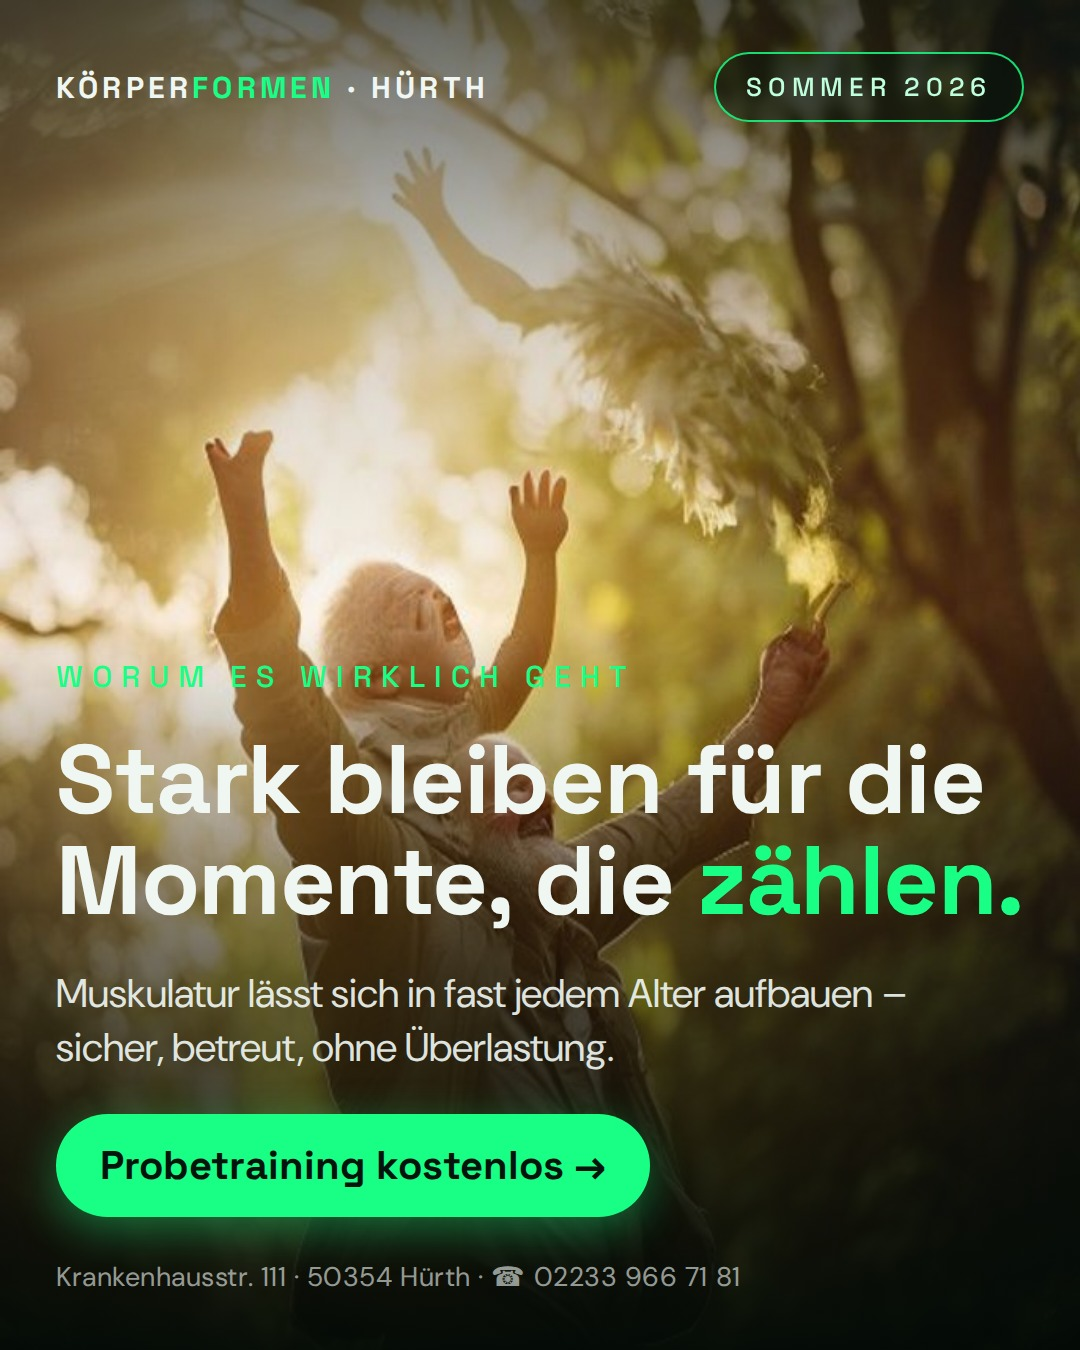
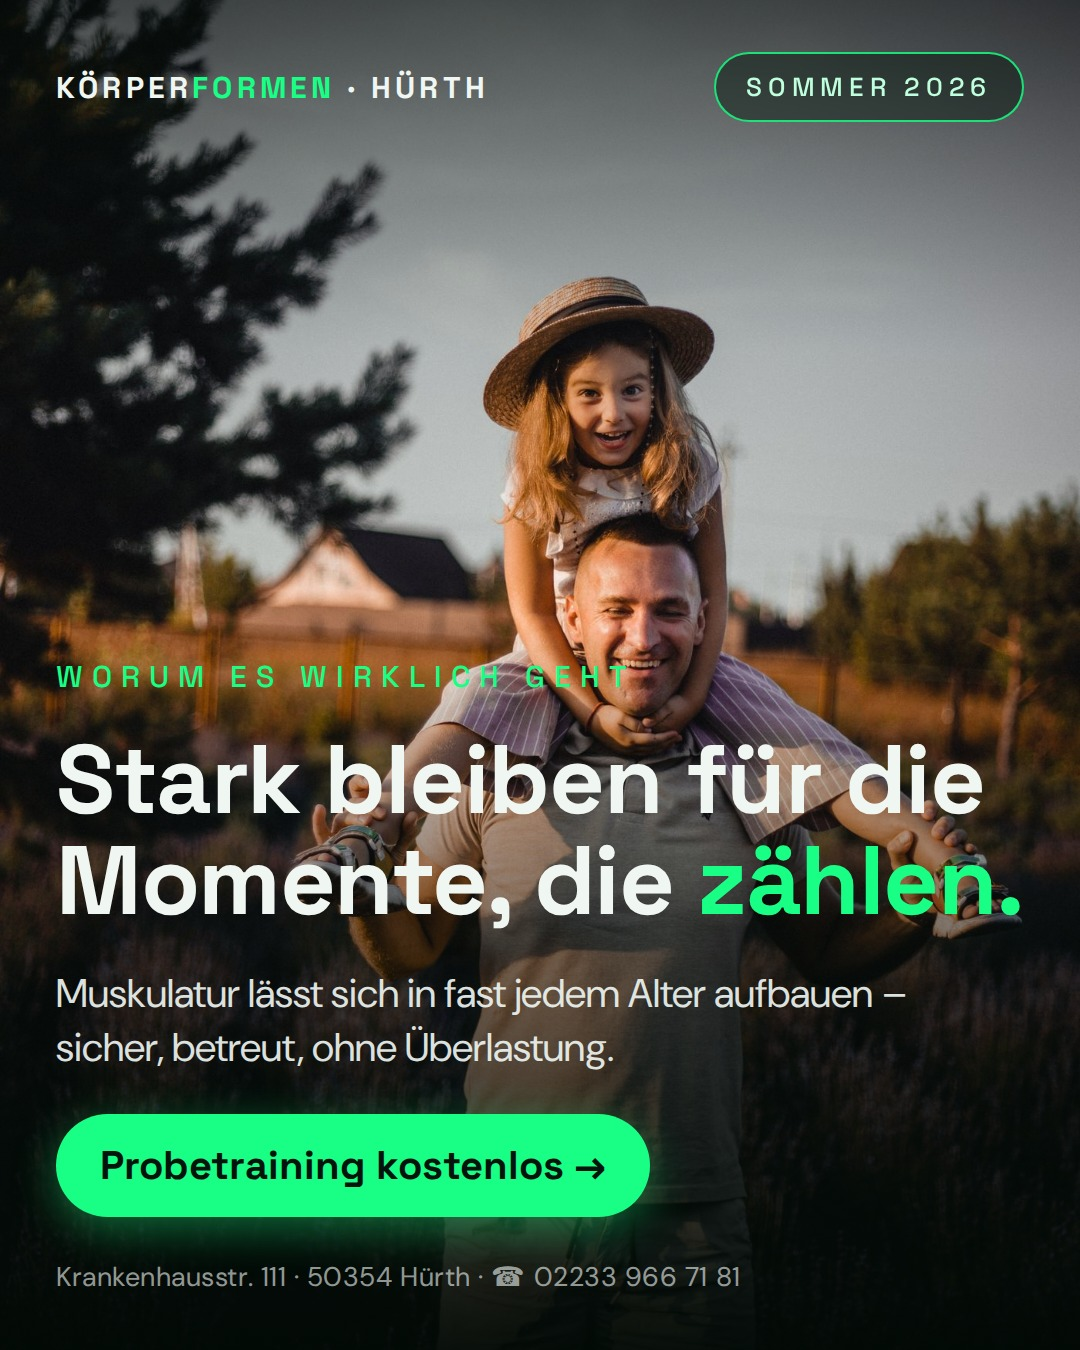
Kampagnen-Motive: KI-Bilder durch echte Pexels-Fotos ersetzt
Alle 8 Foto-Motive nutzen jetzt frei lizenzierte Pexels-Fotos
(kommerzielle Nutzung ohne Namensnennung erlaubt), Quellenliste
in der Posts-Datei ergänzt. Post 9+10 bleiben Statement-Designs.

Claude-Session: https://claude.ai/code/session_016heUAccW7CoEmYAtB9wKKf

diff --git a/SOMMERKAMPAGNE-2026-FACEBOOK-POSTS.md b/SOMMERKAMPAGNE-2026-FACEBOOK-POSTS.md
@@ -24,12 +24,24 @@ designtes Motiv (1080 × 1350 px, 4:5 — das ideale Facebook-Feed-Format):
 Marketing-App (dunkles Grün, Neon-Akzent, Space Grotesk), jeweils mit Headline,
 CTA-Button „Probetraining kostenlos" und Kontaktzeile im Bild.
 
-> **Hinweis zu den Fotos:** Die Foto-Hintergründe (Post 1–8) sind KI-generiert
-> (Pollinations.ai, derselbe Dienst wie in der Marketing-App) — die abgebildeten
-> Personen existieren nicht. Für Werbeanzeigen okay, aber echte Studio-/Team-Fotos
-> wirken authentischer und sind langfristig die bessere Wahl; die Motive lassen sich
-> jederzeit mit euren eigenen Fotos neu bauen. Post 9 + 10 sind reine
-> Statement-Designs ohne Foto und können direkt so verwendet werden.
+> **Hinweis zu den Fotos:** Die Foto-Hintergründe (Post 1–8) sind echte Fotos von
+> **Pexels** — die [Pexels-Lizenz](https://www.pexels.com/license/) erlaubt kostenlose
+> kommerzielle Nutzung inkl. Bearbeitung und Werbung, ohne Namensnennung. Quellen:
+>
+> | Post | Pexels-Foto |
+> |------|-------------|
+> | 1 | [pexels.com/photo/3775607](https://www.pexels.com/photo/3775607/) |
+> | 2 | [pexels.com/photo/32830368](https://www.pexels.com/photo/32830368/) |
+> | 3 | [pexels.com/photo/3776177](https://www.pexels.com/photo/3776177/) |
+> | 4 | [pexels.com/photo/7879994](https://www.pexels.com/photo/7879994/) |
+> | 5 | [pexels.com/photo/4162591](https://www.pexels.com/photo/4162591/) |
+> | 6 | [pexels.com/photo/6922177](https://www.pexels.com/photo/6922177/) |
+> | 7 | [pexels.com/photo/3353573](https://www.pexels.com/photo/3353573/) |
+> | 8 | [pexels.com/photo/9066925](https://www.pexels.com/photo/9066925/) |
+>
+> Langfristig wirken echte Fotos aus eurem Studio in Hürth noch stärker — die Motive
+> lassen sich jederzeit mit eigenen Fotos im selben Design neu bauen. Post 9 + 10 sind
+> reine Statement-Designs ohne Foto.
 
 ---
 
